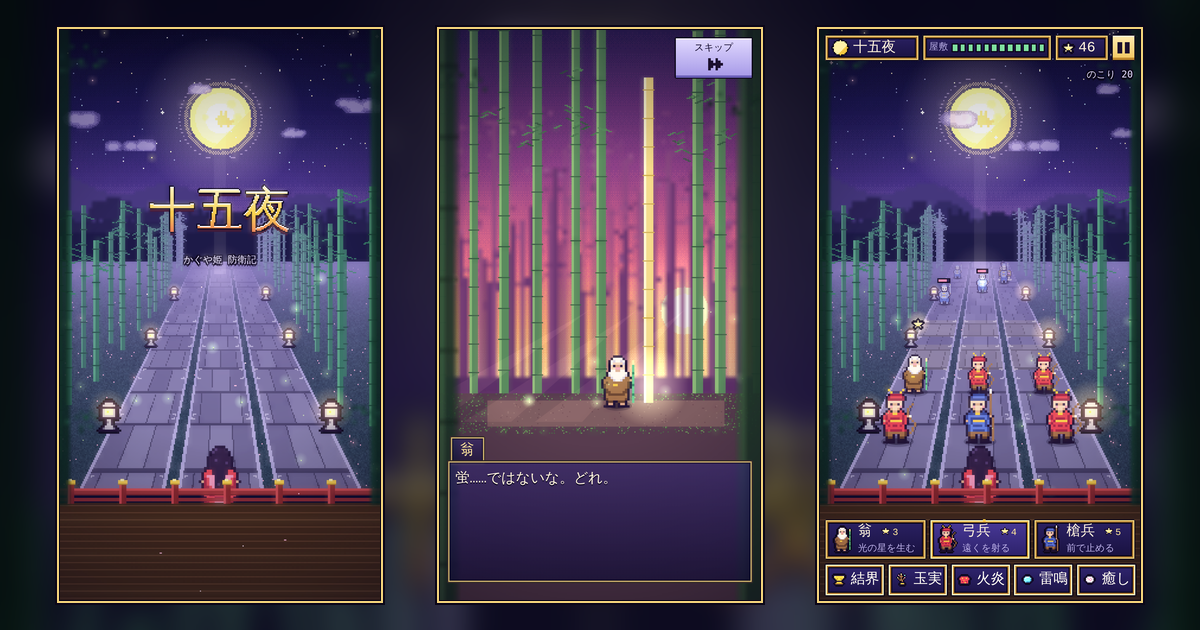
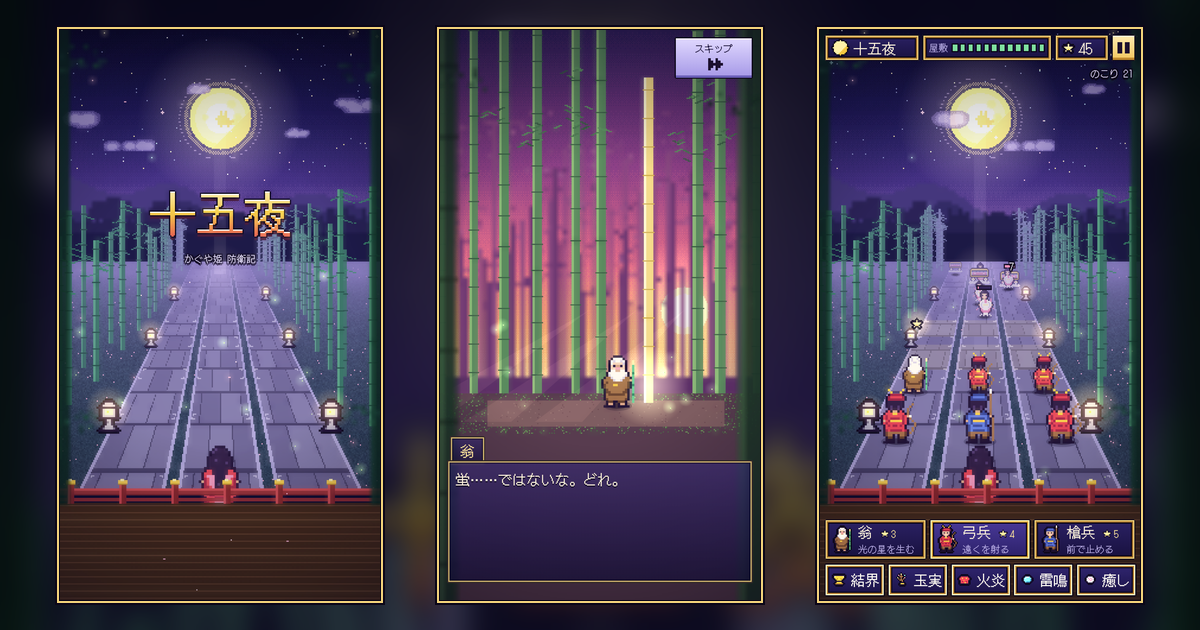
十五夜: show allied units from behind in battle
Archers, spearmen and Grandpa now face up the road toward the moon's
envoys during battle (cutscenes and unit cards keep the front view).
Refresh the OGP image and thumbnail to match.

Claude-Session: https://claude.ai/code/session_01RLpiv2sD3ubX9Xw54k5n92

diff --git a/public/apps/jugoya/index.html b/public/apps/jugoya/index.html
@@ -326,6 +326,10 @@ ic_ff:["k..k..","kk.kk.","kkkkkk","kk.kk.","k..k.."],
 ic_pause:["kk.kk","kk.kk","kk.kk","kk.kk","kk.kk"],
 i_take:["....y.....","...kbk....","...kbk....","...kBk....","...kbk....","...kyk....","...kbk....","...kBk....","...kbk...."]
 };
+
+SPR.archerB=SPR.archer.map((r,i)=>({5:"...khhhhhhk.....",6:"...khhhhhhk...n.",7:"...khHhhHhk..n..",8:"....kHhhHk..n..."})[i]||r);
+SPR.guardB=SPR.guard.map((r,i)=>({5:"...khhhhhhk.n...",6:"...khhhhhhk.n...",7:"...khHhhHhk.n...",8:"....kHhhHk..n..."})[i]||r);
+SPR.okinaB=SPR.okina.map((r,i)=>({4:"....kwWwwwWk..y.",5:"....kwwWWwwk..b.",6:"....kWwwwwWk..b.",7:"....kwwwwwwk..b."})[i]||r);
 const OL_INK='#0B0618';
 
 const SPC={};
@@ -932,7 +936,7 @@ function drawBattle(t){
  for(const p of L.props)ents.push({z:p.z,f:()=>drawProp(p,t)});
  for(const u of N.units)ents.push({z:u.z+.001,f:()=>drawUnit(u,t)});
  for(const e of N.enemies)ents.push({z:e.z,f:()=>drawEnemy(e,t)});
- if(N.ghost&&N.hover){const {l,r}=N.hover;ents.push({z:ROWZ[r],f:()=>{const p=cellPos(l,r);drawSpr(UNITS[N.ghost].spr,p.x,p.y,SK*zs(ROWZ[r]),{a:.55});}});}
+ if(N.ghost&&N.hover){const {l,r}=N.hover;ents.push({z:ROWZ[r],f:()=>{const p=cellPos(l,r);drawSpr(UNITS[N.ghost].spr+'B',p.x,p.y,SK*zs(ROWZ[r]),{a:.55});}});}
  ents.sort((a,b)=>b.z-a.z).forEach(e=>e.f());
  // projectiles
  for(const p of N.projs){if(p.sx==null)continue;p.tr.forEach(([x,y],i)=>{ctx.globalAlpha=(i+1)/7;ctx.fillStyle=p.crit?'#FFE59A':'#BFE9FF';ctx.fillRect(Math.round(x),Math.round(y),1,2);});ctx.globalAlpha=1;
@@ -955,7 +959,7 @@ function drawUnit(u,t){
  const s=zs(u.z),x=PX(u.lo,u.z),y=PY(u.z),sc=SK*s;
  let ax=1,ay=1+.03*Math.sin(u.ph);if(u.pop>0){const k=u.pop/.3;ax=1+.3*k;ay=1-.22*k;}if(u.atk>0){ax*=1.08;ay*=.9;}
  shadow(x,y,14*sc);
- drawSpr(UNITS[u.type].spr,x,y,sc,{sx:ax,sy:ay,fog:clamp((u.z-.15)*.7,0,.5),tint:u.hit>0?['#FFFFFF',.9]:u.charm>0?['#F48FB6',.35+.25*Math.sin(t*12)]:null});
+ drawSpr(UNITS[u.type].spr+'B',x,y,sc,{sx:ax,sy:ay,fog:clamp((u.z-.15)*.7,0,.5),tint:u.hit>0?['#FFFFFF',.9]:u.charm>0?['#F48FB6',.35+.25*Math.sin(t*12)]:null});
  if(u.hp<u.max){const w=Math.round(16*sc/SK*1.6);bar(x,y-27*sc,w,u.hp/u.max,'#7FE0A0');}
 }
 function drawEnemy(e,t){
